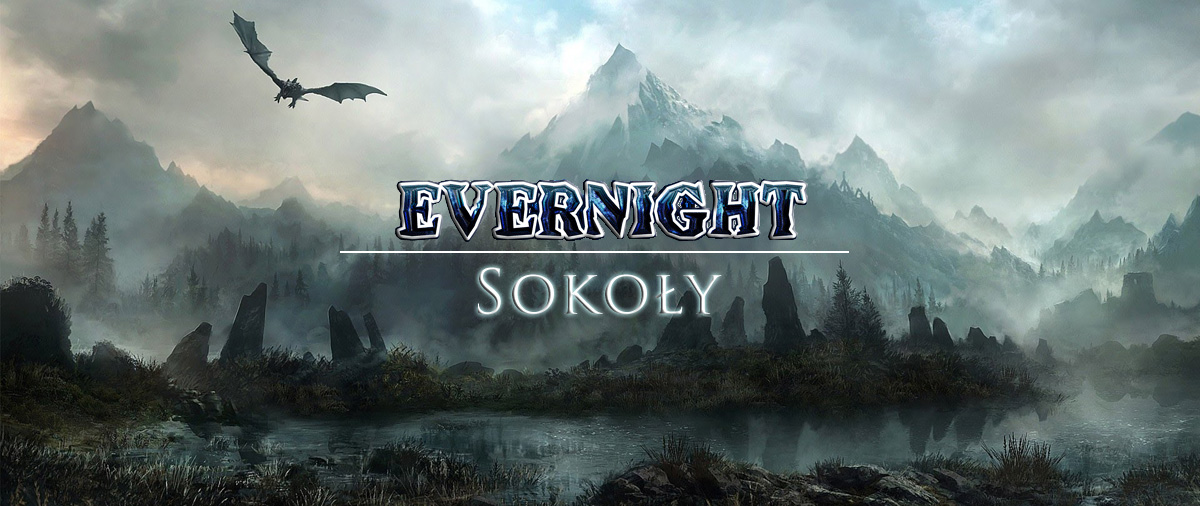
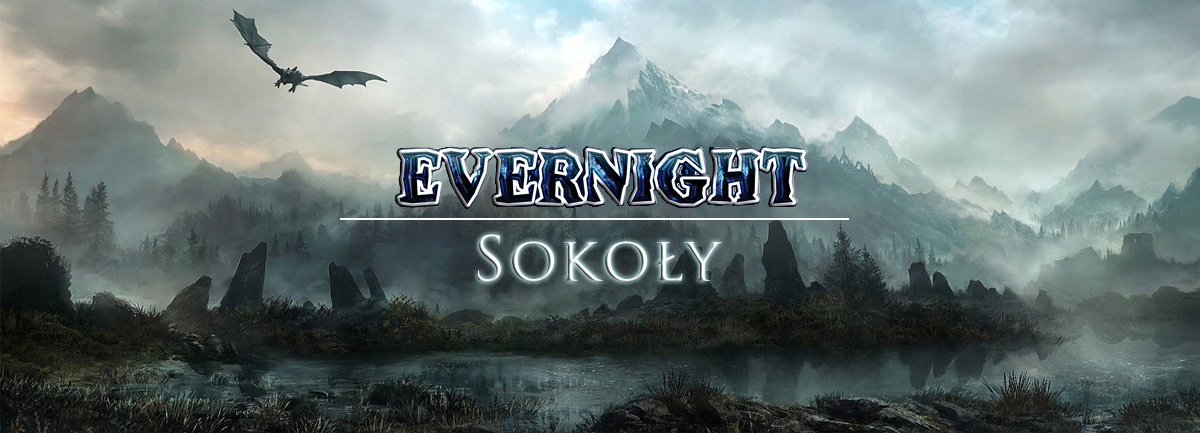
picture for missions added

Changed region(s): [[0.2775, 0.3303, 0.7092, 0.6605]]

diff --git a/src/components/css/styles.scss b/src/components/css/styles.scss
@@ -5,13 +5,15 @@
 @import url("http://fonts.googleapis.com/css?family=Berkshire+Swash&subset=latin,latin-ext");
 
 $second-font: 'Berkshire Swash', sans-serif;
-$main-font: 'Arima Madurai', sans-serif;
-//$main-font: 'Amarante', sans-serif;
+//$main-font: 'Arima Madurai', sans-serif;
+$main-font: 'Amarante', sans-serif;
 //$main-font: 'Alegreya', sans-serif;
 
-* {
-  font-family: $second-font;
-}
+$background-color: #2c2c2c;
+
+//* {
+//  font-family: $main-font;
+//}
 
 .centered {
   text-align: center;
@@ -23,6 +25,13 @@ $main-font: 'Arima Madurai', sans-serif;
 
 body {
   padding-top: 50px;
+  background-color: $background-color;
+  font-family: $main-font;
+}
+
+nav {
+  font-family: $second-font;
+  font-size: 1.6rem;
 }
 
 // ----- HOME ------
@@ -34,4 +43,6 @@ body {
 blockquote {
   margin-top: 50px;
   font-family: $main-font;
+  color: lighten($background-color, 60%);
+  border-left: 4px solid grey;
 }

diff --git a/src/components/css/styles.css b/src/components/css/styles.css
@@ -2,9 +2,6 @@
 @import url("http://fonts.googleapis.com/css?family=Amarante&subset=latin,latin-ext");
 @import url("http://fonts.googleapis.com/css?family=Arima+Madurai&subset=latin,latin-ext");
 @import url("http://fonts.googleapis.com/css?family=Berkshire+Swash&subset=latin,latin-ext");
-* {
-  font-family: "Berkshire Swash", sans-serif; }
-
 .centered {
   text-align: center; }
 
@@ -12,13 +9,21 @@
   color: antiquewhite; }
 
 body {
-  padding-top: 50px; }
+  padding-top: 50px;
+  background-color: #2c2c2c;
+  font-family: "Amarante", sans-serif; }
+
+nav {
+  font-family: "Berkshire Swash", sans-serif;
+  font-size: 1.6rem; }
 
 .container.row {
   padding: 0; }
 
 blockquote {
   margin-top: 50px;
-  font-family: "Arima Madurai", sans-serif; }
+  font-family: "Amarante", sans-serif;
+  color: #c5c5c5;
+  border-left: 4px solid grey; }
 
 /*# sourceMappingURL=styles.css.map */

diff --git a/src/components/missions.js b/src/components/missions.js
@@ -1,9 +1,12 @@
 import React from 'react';
-import {Table, Grid} from 'react-bootstrap'
+import {Table, Grid, Row, Image} from 'react-bootstrap'
 import Missionsjson from '../data/missions.json'
 
 const Missions = () => (
   <Grid>
+    <Row className="container">
+      <Image src={require("../img/misje.jpg")} responsive />
+    </Row>
   <Table striped>
     <thead>
     <tr>
